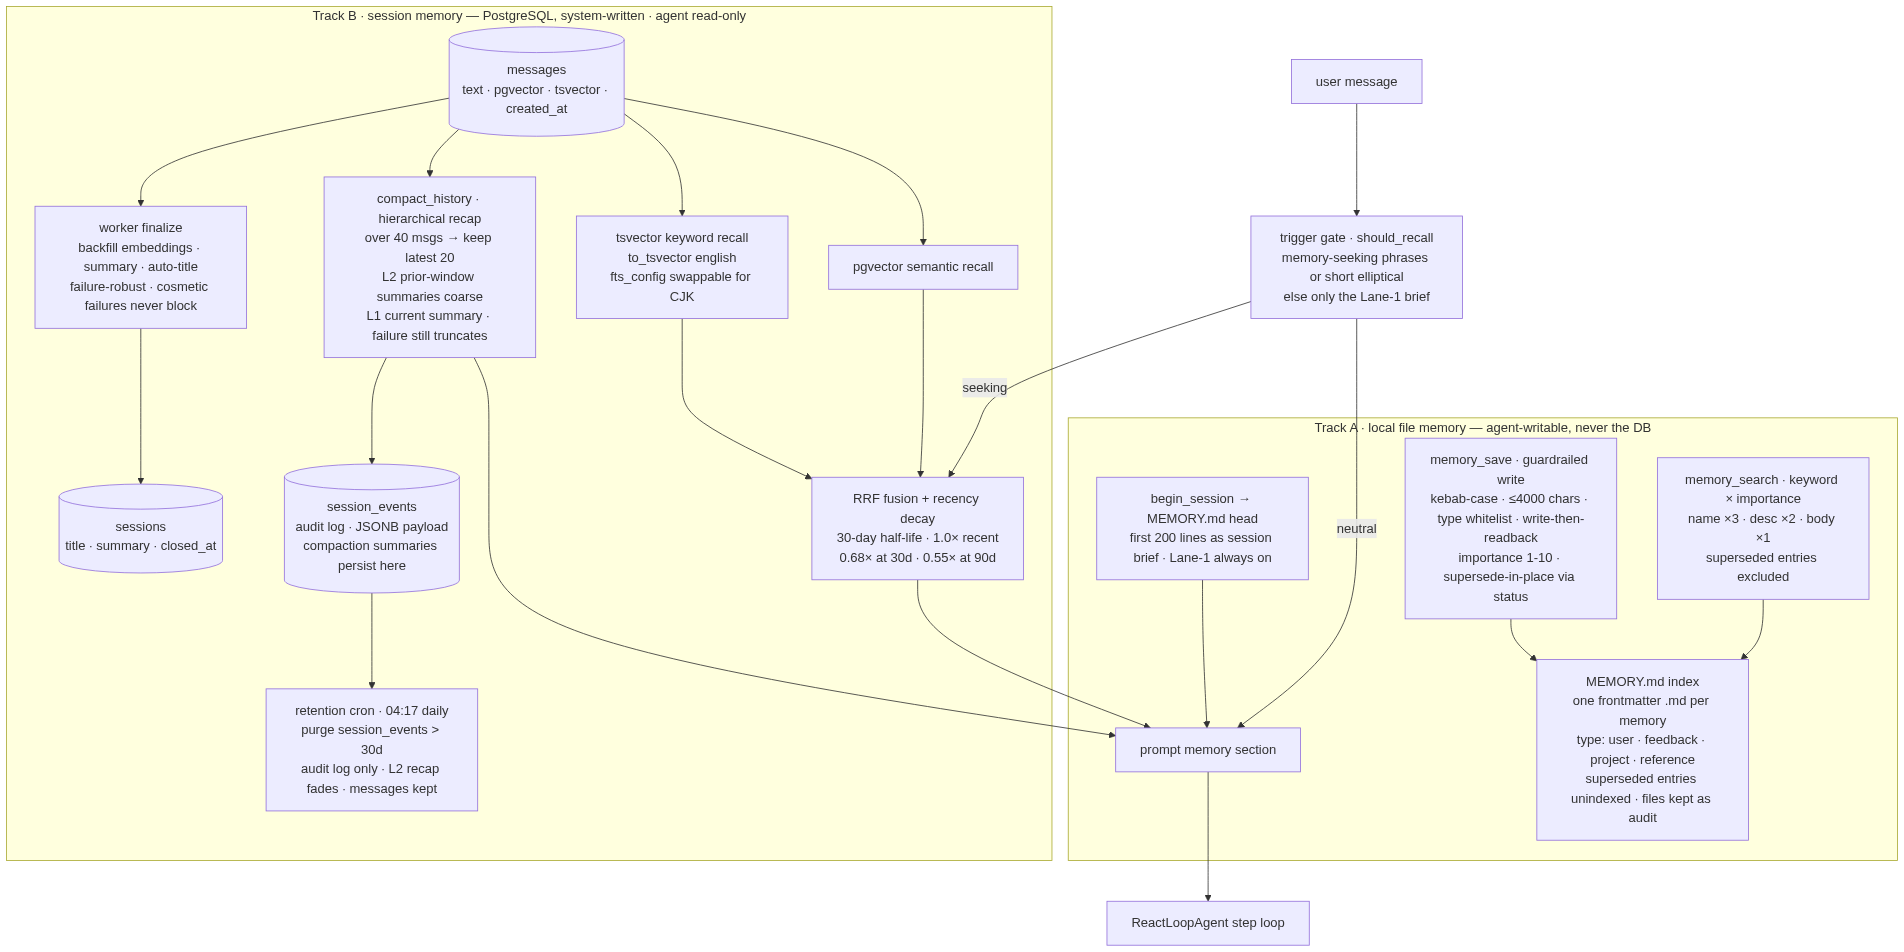
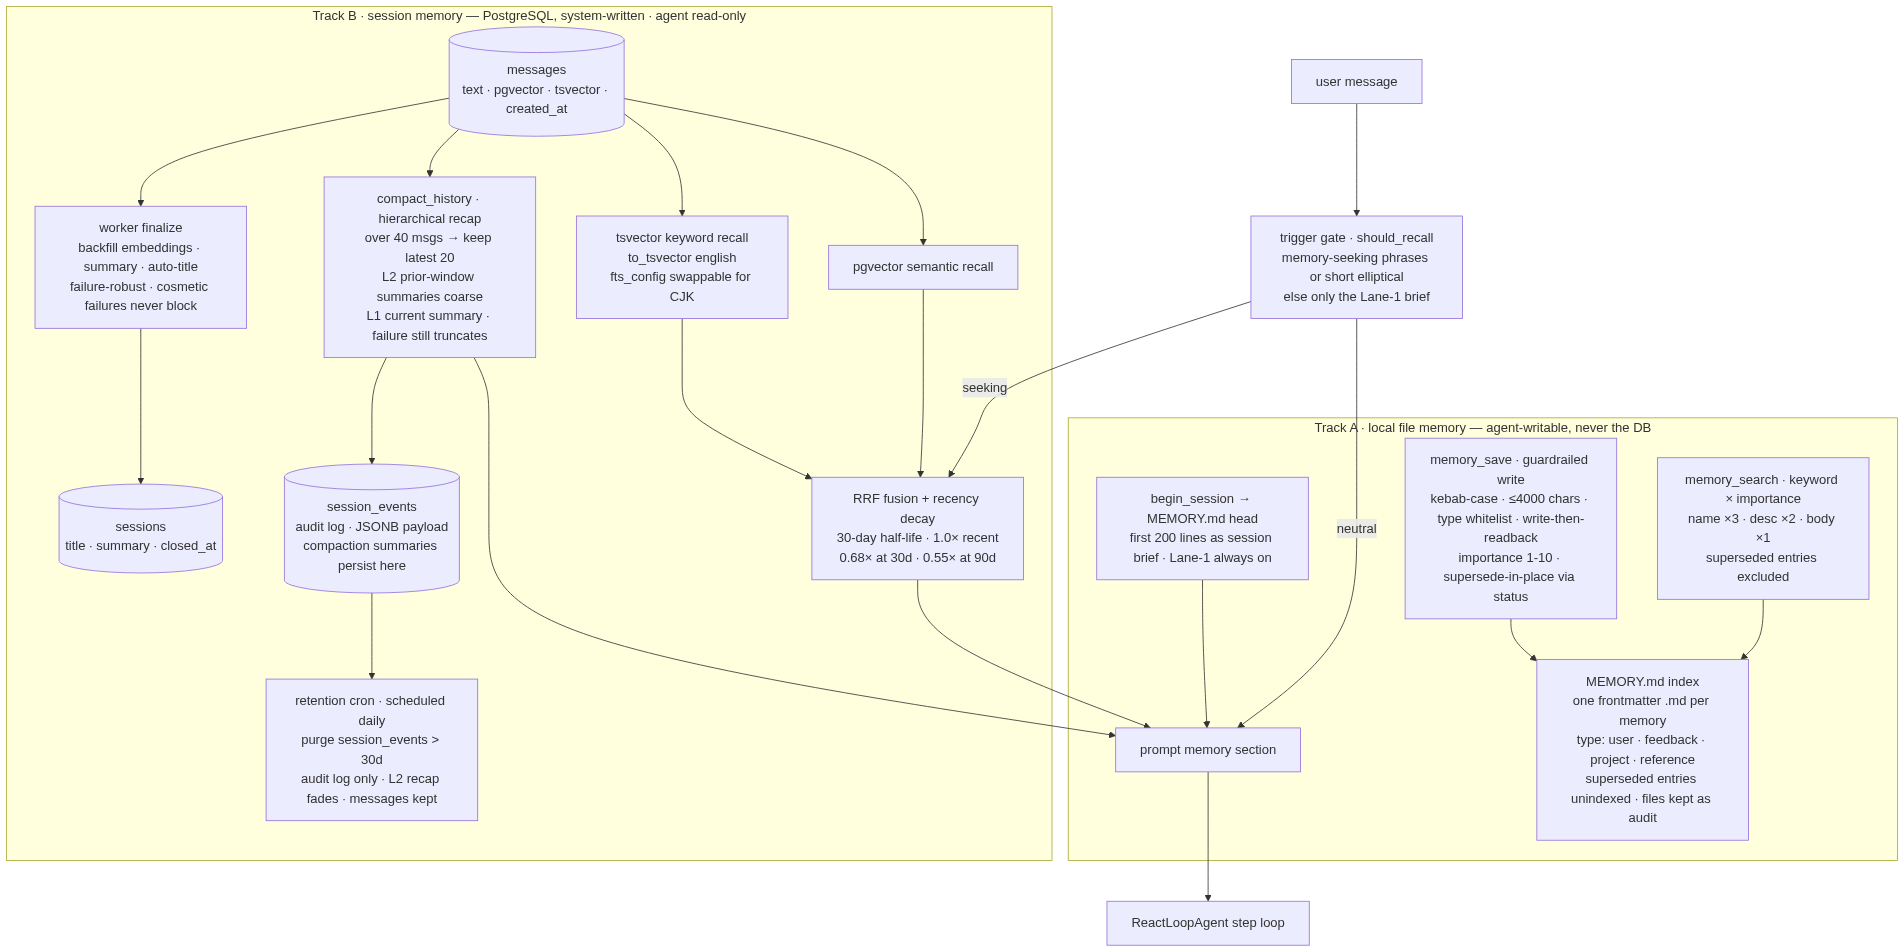
docs: expand prompt mermaid source inline, align 2x2, drop retention clock time
- Remove prompt-architecture.png + <details> fold; render the mermaid source
  directly (GitHub renders fenced blocks inline).
- Add wrappingWidth so long node labels fit on one line (no clipping) and
  restructure to a 2x2 grid (Input/Design top row, render_prompt/Process
  bottom row) by dropping the render->snip cross-subgraph edge.
- memory diagram: SWEEP node now "retention cron · scheduled daily" instead
  of the hard-coded 04:17.

false

Changed region(s): [[0.1239, 0.7006, 0.2479, 0.8834]]

diff --git a/README.md b/README.md
@@ -102,7 +102,7 @@ flowchart TB
         RRF[RRF fusion + recency decay<br/>30-day half-life · 1.0× recent<br/>0.68× at 30d · 0.55× at 90d]
         COMPACT[compact_history · hierarchical recap<br/>over 40 msgs → keep latest 20<br/>L2 prior-window summaries coarse<br/>L1 current summary · failure still truncates]
         FINAL[worker finalize<br/>backfill embeddings · summary · auto-title<br/>failure-robust · cosmetic failures never block]
-        SWEEP[retention cron · 04:17 daily<br/>purge session_events > 30d<br/>audit log only · L2 recap fades · messages kept]
+        SWEEP[retention cron · scheduled daily<br/>purge session_events > 30d<br/>audit log only · L2 recap fades · messages kept]
         MSGS --> KW
         MSGS --> VEC
         KW --> RRF
@@ -136,12 +136,8 @@ flowchart TB
 **Prompt — cache-boundary assembly, compression, and deferred tool stubs** (architecture, design
 features, and per-step process logic):
 
-![Prompt architecture — cache-boundary assembly](./docs/images/prompt-architecture.png)
-
-<details>
-<summary>Mermaid source (for editing — regenerate via mermaid.ink)</summary>
-
 ```mermaid
+%%{init: {"flowchart": {"wrappingWidth": 500, "nodeSpacing": 40, "rankSpacing": 50}}}%%
 flowchart TB
     %% Prompt module: cache-boundary assembly + compression + deferred tool stubs.
     %% Invariants: the CACHE_BOUNDARY separator is internal-only and never rendered; the stable
@@ -173,7 +169,7 @@ flowchart TB
     end
 
     subgraph perstep["Process · per step"]
-        RENDER --> SNIP["per-message snip · prompt_message_max_chars<br/>request snapshot trimmed · persistence keeps full text"]
+        SNIP["per-message snip · prompt_message_max_chars<br/>request snapshot trimmed · persistence keeps full text"]
         AUTO --> SNIP
         SNIP --> REQ["LLM request · system + snipped messages"]
         REQ --> REFRESH["refresh_dynamic · recompute only DYNAMIC_SUFFIX<br/>unchanged → system not re-sent · head reused"]
@@ -181,8 +177,6 @@ flowchart TB
         REFRESH --> REQ
     end
 ```
-
-</details>
 
 > **Prompt invariants** — the `CACHE_BOUNDARY` separator is internal-only and never rendered to the
 > model; the stable head (STATIC_PREFIX + PROJECT_CONTEXT) is byte-identical across requests so the

diff --git a/docs/architecture.md b/docs/architecture.md
@@ -272,10 +272,10 @@ persistence copy stays raw); and **token-aware autocompact** — `compact_histor
 total-window character budget (`settings.prompt_max_chars`), so a few oversized messages trigger
 compaction even below the message-count threshold.
 
-The README's *Prompt* diagram ([images/prompt-architecture.png](../docs/images/prompt-architecture.png))
-visualizes the same contract end to end — input compaction, the three cache-boundary zones feeding
-a stable head, `render_prompt` producing the snapshot key, and the per-step process (snip → LLM
-request → `refresh_dynamic` / visible-tool stubs).
+The README's *Prompt* diagram ([mermaid source](../README.md)) visualizes the same contract end to
+end — input compaction, the three cache-boundary zones feeding a stable head, `render_prompt`
+producing the snapshot key, and the per-step process (snip → LLM request → `refresh_dynamic` /
+visible-tool stubs).
 
 ### 5.4 Memory, skills, sessions
 
